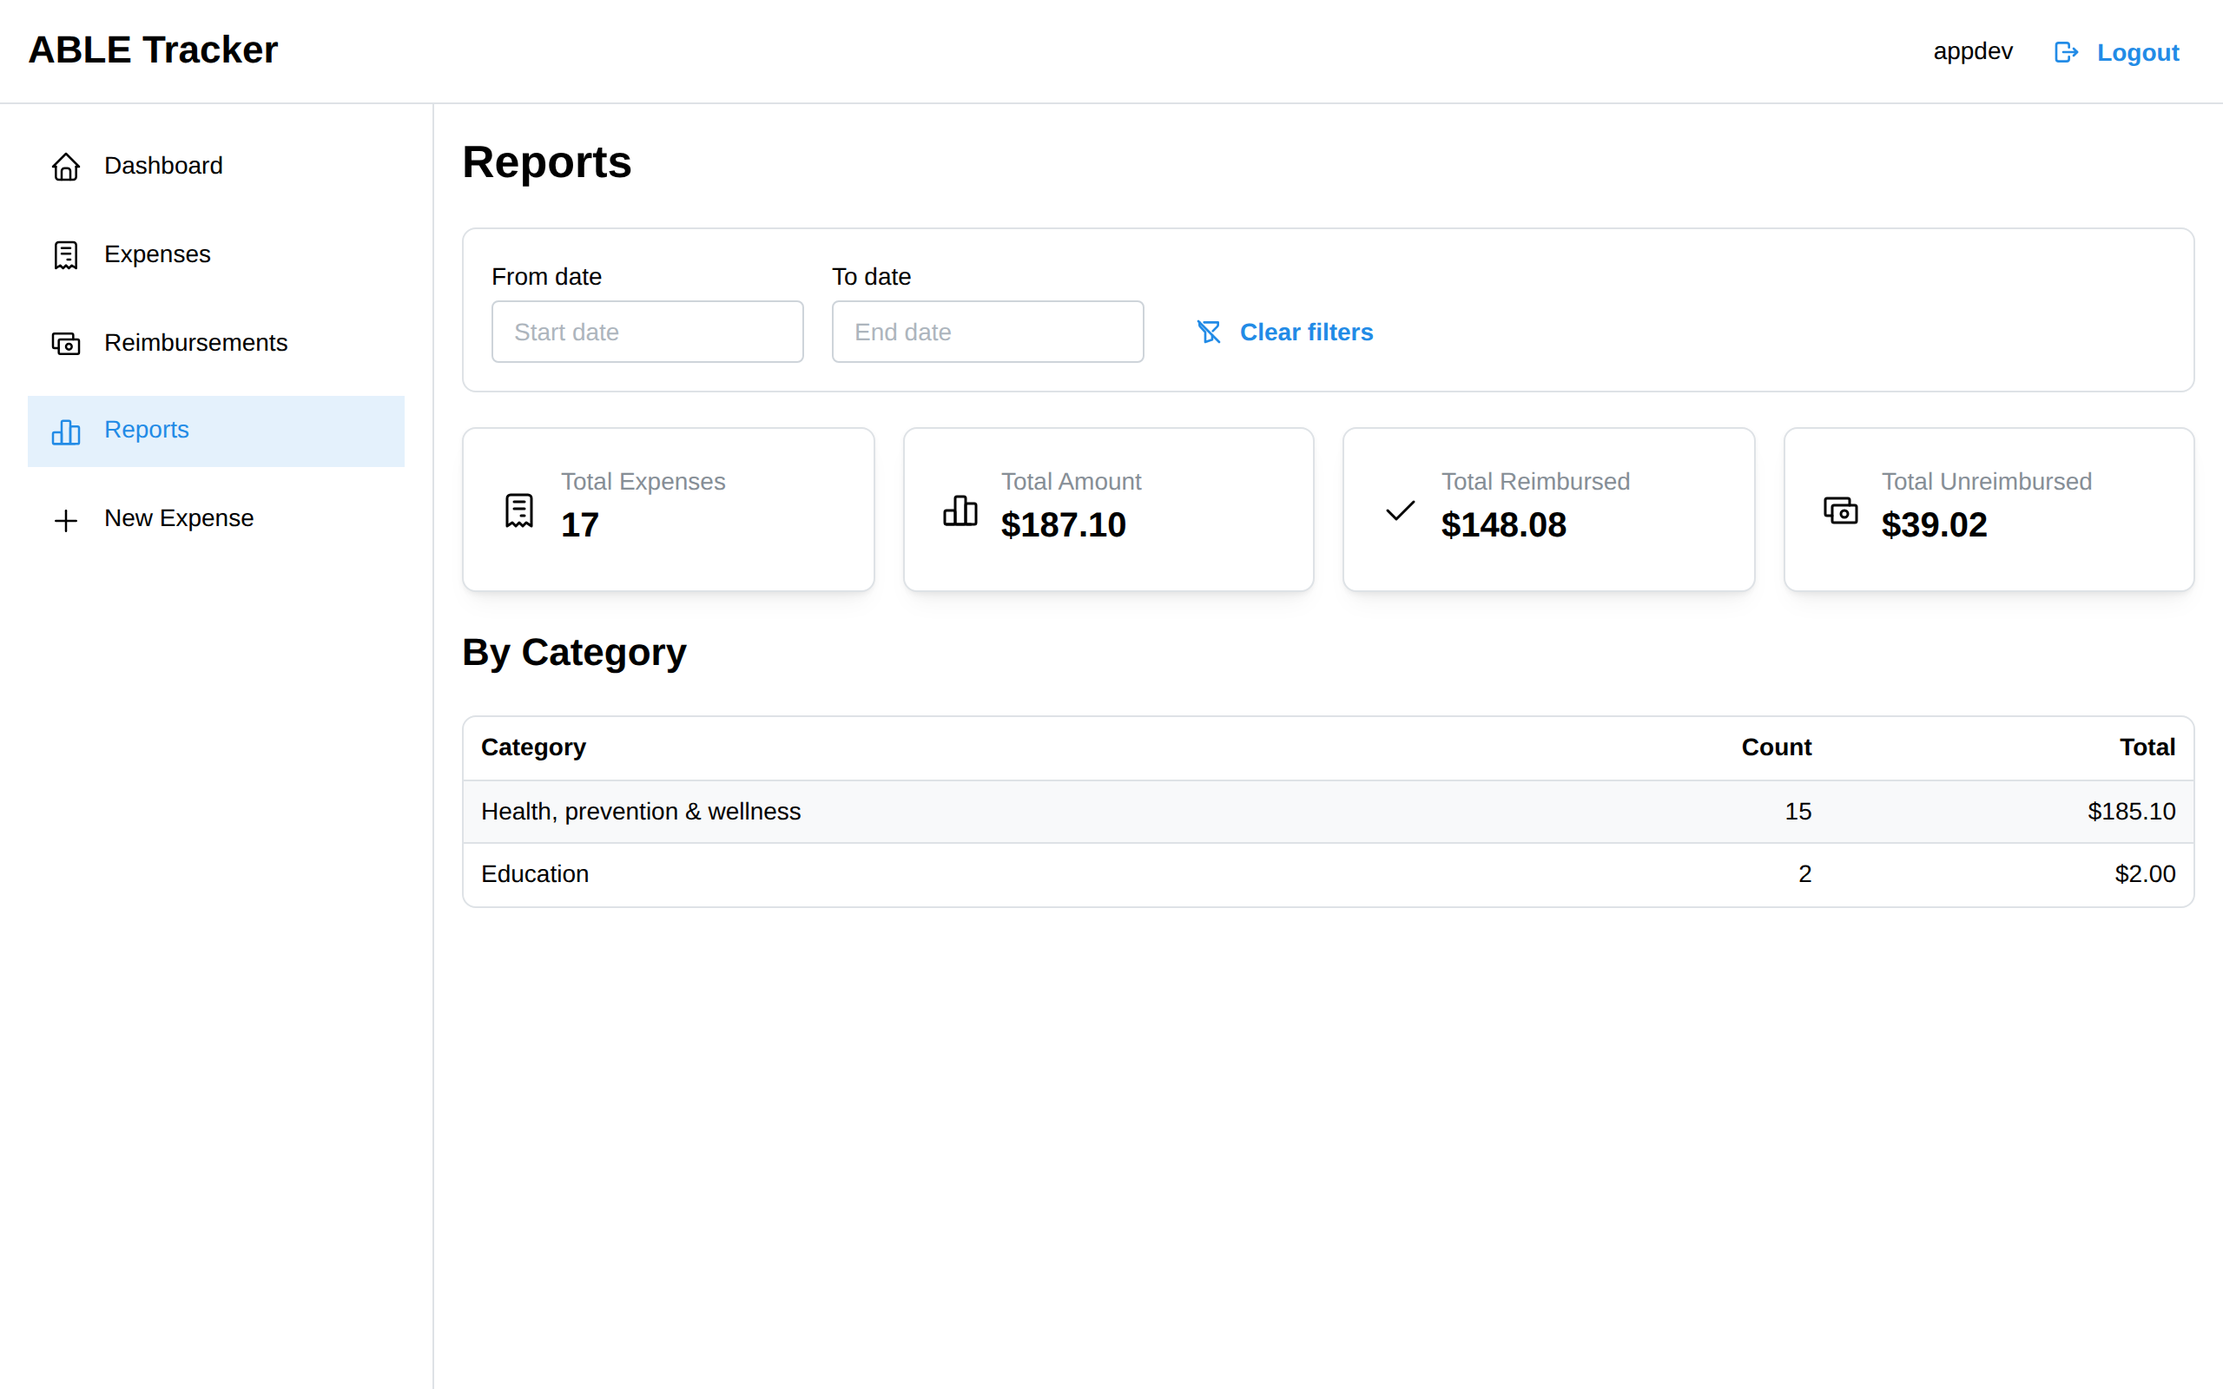
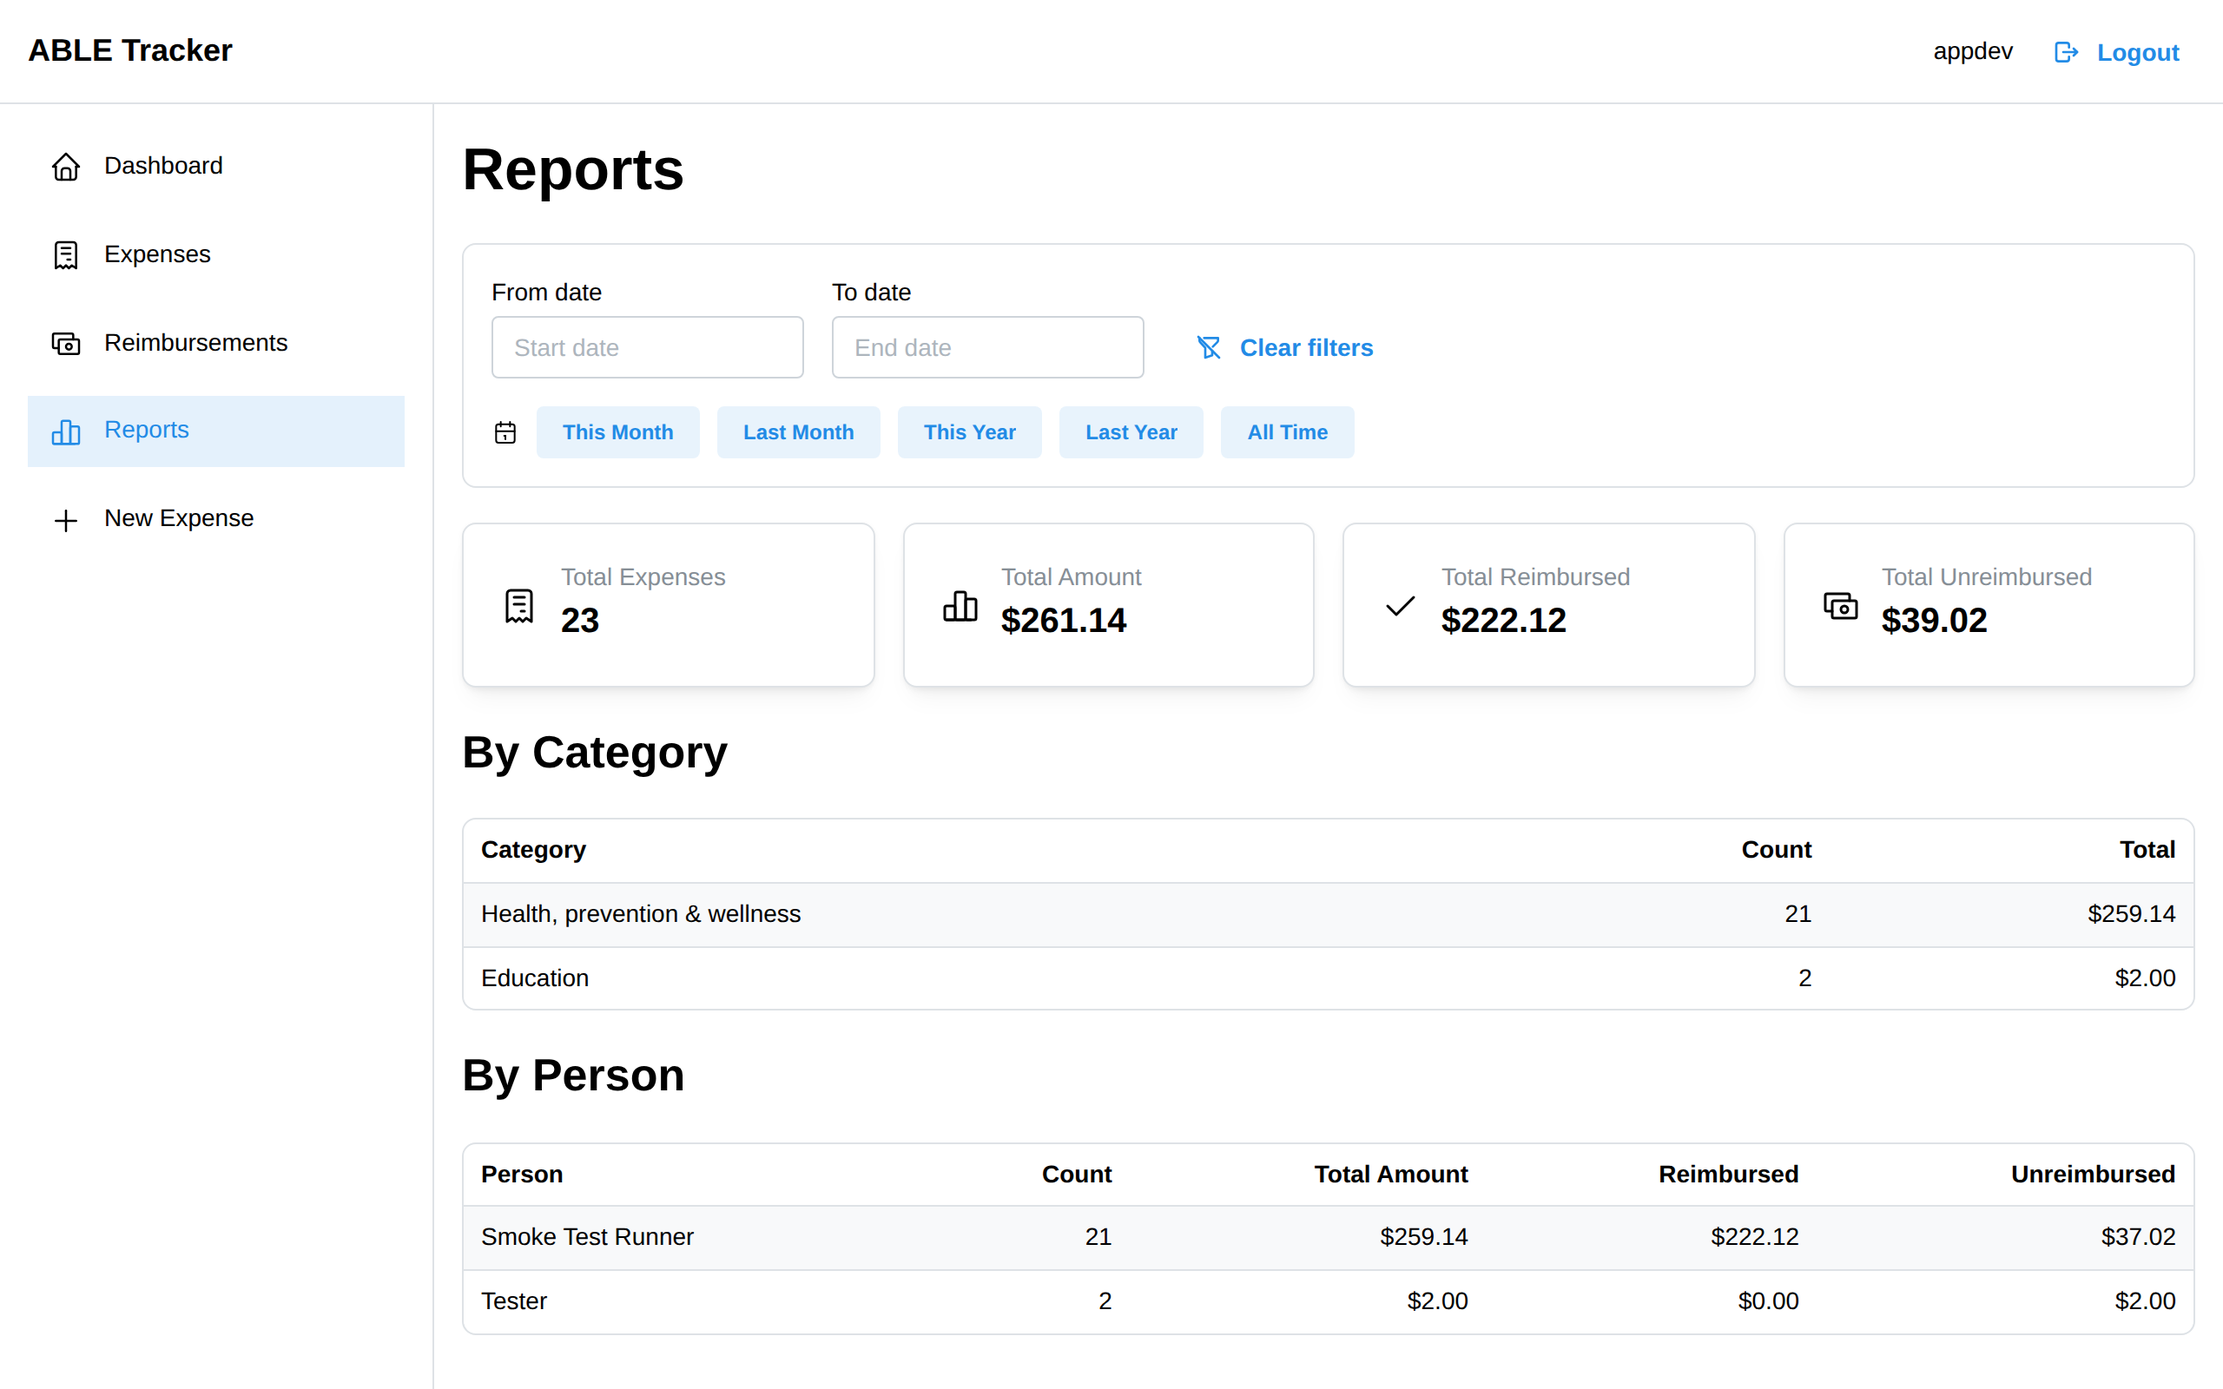
docs: add Sprint 6 UAT report and refresh demo script with screenshots
Update product-demo.md for Sprint 6 features: per-person breakdown and
date presets on Reports page, skip-to-content accessibility link,
structured logging and CloudWatch alarms, security audit docs, S3 IAM
prefix scoping, Playwright E2E framework. Refresh all 13 screenshots
from live environment. Create sprint-6-uat-report.md with 511 passing
tests (280 web + 231 API) and all 7 Sprint 6 items accepted.

diff --git a/docs/demos/product-demo.md b/docs/demos/product-demo.md
@@ -1,6 +1,6 @@
 # ABLE Tracker -- Product Demo
 
-> Last updated: Sprint 5, 2026-03-06 (post-deployment)
+> Last updated: Sprint 6, 2026-03-07 (post-deployment)
 
 ## What is ABLE Tracker?
 
@@ -119,6 +119,7 @@ The Dashboard is the landing page after login. It greets the user by name, provi
 The app uses a sidebar navigation layout with a fixed header. On mobile, the sidebar collapses behind a hamburger menu.
 
 **Header (always visible):**
+- **Skip to content** link (visible on keyboard focus) -- jumps directly to the main content area
 - "ABLE Tracker" title on the left
 - User's display name and a **Logout** button on the right
 
@@ -152,6 +153,7 @@ The app uses a sidebar navigation layout with a fixed header. On mobile, the sid
 - [ ] Logout button ends the session and redirects to login
 - [ ] On mobile, sidebar collapses behind a hamburger menu
 - [ ] Navigation is fully keyboard accessible (Tab, Enter)
+- [ ] Skip-to-content link is visible on keyboard focus and jumps to `#main-content`
 
 ---
 
@@ -381,30 +383,36 @@ The Reimbursements page provides a dedicated view of who is owed money and how m
 
 ![Reports page](screenshots/12-reports.png)
 
-The Reports page provides a high-level financial overview of all expenses with summary statistics and a category breakdown. It supports date range filtering to analyze expenses over specific periods.
+The Reports page provides a high-level financial overview of all expenses with summary statistics, category breakdown, and per-person spending analysis. It supports date range filtering with quick presets to analyze expenses over specific periods.
 
 **Page sections:**
 
-1. **Date range filter** -- From/To date pickers with a "Clear filters" button
-2. **Summary cards** -- Four cards showing key metrics:
+1. **Date range filter** -- From/To date pickers with a "Clear filters" button and quick preset buttons
+2. **Quick date presets** -- One-click buttons for common ranges: "This Month", "Last Month", "This Year", "Last Year", "All Time"
+3. **Summary cards** -- Four cards showing key metrics:
    - **Total Expenses** -- Count of all expenses in the filtered range
    - **Total Amount** -- Sum of all expense amounts
    - **Total Reimbursed** -- Sum of amounts that have been reimbursed
    - **Total Unreimbursed** -- Sum of amounts still awaiting reimbursement
-3. **By Category table** -- Breakdown of expenses by ABLE category, sorted by total amount (highest first), showing category name, count, and total
+4. **By Category table** -- Breakdown of expenses by ABLE category, sorted by total amount (highest first), showing category name, count, and total
+5. **By Person table** -- Breakdown of expenses by payer, sorted by total amount (highest first), showing person name, count, total amount, reimbursed amount, and unreimbursed amount
 
 **Steps:**
 
 1. Navigate to **Reports** from the sidebar.
 2. View the four summary cards for an instant financial overview.
 3. Scroll down to the **By Category** table to see spending distribution across ABLE categories.
-4. Use the **From date** and **To date** pickers to narrow the report to a specific time period.
-5. Click **"Clear filters"** to reset and view all expenses.
+4. Continue to the **By Person** table to see spending and reimbursement status per payer.
+5. Use the **quick preset buttons** (This Month, Last Month, This Year, Last Year, All Time) for common date ranges.
+6. Or use the **From date** and **To date** pickers to set a custom date range.
+7. Click **"Clear filters"** to reset and view all expenses.
 
 **What happens:**
 - All expenses are fetched from the API via `/expenses` (with optional date filters).
 - Summary statistics are aggregated client-side from the full expense list.
 - The category breakdown groups expenses by their ABLE category and sorts by total amount descending.
+- The person breakdown groups expenses by `paidBy` field, showing total, reimbursed, and unreimbursed amounts for each payer.
+- Clicking a date preset automatically sets the From/To dates and triggers a refresh.
 - Changing date filters triggers a new API call and recalculates all summaries.
 
 **Empty state:**
@@ -415,7 +423,10 @@ The Reports page provides a high-level financial overview of all expenses with s
 - [ ] Total Amount = Total Reimbursed + Total Unreimbursed
 - [ ] By Category table shows all categories with expenses, sorted by total descending
 - [ ] Category count and total are accurate
-- [ ] Date range filter narrows results and updates all summaries
+- [ ] By Person table shows all payers with count, total, reimbursed, and unreimbursed columns
+- [ ] Per-person reimbursed + unreimbursed = total for each row
+- [ ] Date range quick presets (This Month, Last Month, This Year, Last Year, All Time) set correct dates
+- [ ] Custom date range filter narrows results and updates all summaries
 - [ ] "Clear filters" resets date range and shows all expenses
 - [ ] Empty state shows when no expenses exist or match filters
 - [ ] All amounts are formatted as currency (e.g., "$187.10")
@@ -453,6 +464,9 @@ ABLE Tracker runs on a fully automated AWS infrastructure, defined entirely in C
 | Database | DynamoDB (single-table) | Expense storage with GSI for category and paidBy queries |
 | Storage | S3 (private) | Receipt file storage via presigned upload URLs |
 | AI | Claude API (Sonnet) | Expense categorization into 11 ABLE categories |
+| Logging | CloudWatch Logs | Structured JSON Lambda logging with request tracing |
+| Monitoring | CloudWatch Alarms | 5xx error rate and AI categorization latency (p99) alerts |
+| E2E Testing | Playwright | End-to-end browser tests for critical paths |
 | CI/CD | GitHub Actions | Automated tests, security review, and deployment pipelines |
 
 ### API Endpoints
@@ -473,15 +487,19 @@ All API endpoints require a valid Cognito JWT in the `Authorization: Bearer <tok
 
 - **API Gateway JWT authorizer** -- All routes require Cognito JWT validation before reaching Lambda
 - **Lambda-level auth validation** -- Defense-in-depth; handlers verify auth context independently
-- **Least-privilege IAM** -- Lambda roles use fine-grained DynamoDB permissions (specific actions on specific table/index ARNs) instead of broad wildcards
+- **Least-privilege IAM** -- Lambda roles use fine-grained DynamoDB permissions (specific actions on specific table/index ARNs) instead of broad wildcards; S3 access scoped to `receipts/*` prefix
 - **CORS restriction** -- API only accepts requests from the deployed frontend domain and localhost
-- **Input validation** -- String length limits (vendor 200, description 1000, paidBy 100), amount validation (>0, max $1M), receipt key scoping
+- **Input validation** -- String length limits (vendor 200, description 1000, paidBy 100, categoryNotes 500), amount validation (>0, max $1M), receipt key scoping; AI categorization endpoint enforces separate input length limits
 - **Generic error messages** -- Auth failures return generic messages; no implementation details leaked
 - **Secret scanning** -- Pre-commit hook and CI pipeline scan for leaked secrets/credentials
 - **No PII to AI** -- Only vendor name and description are sent to the Claude API; no account numbers, SSNs, or personal data
 - **API throttling** -- API Gateway enforces rate limits: 100 requests/sec (200 burst) globally, with tighter limits on the AI categorization endpoint (10 requests/sec, 20 burst)
 - **Upload size limits** -- Presigned upload URLs enforce a 10 MB maximum file size, validated both at the handler level and embedded in the presigned URL signature
+- **Structured logging** -- All Lambda handlers emit structured JSON logs with request IDs, handler names, timestamps, and metadata for traceability
+- **CloudWatch monitoring** -- Alarms on 5xx error rate (>5 errors in 5 minutes) and AI categorization latency (p99 >10 seconds)
 - **Post-deploy smoke tests** -- Automated CI pipeline validates all API endpoints after every deployment
+- **Accessibility (WCAG 2.1 AA)** -- Skip-to-content link, proper heading hierarchy, ARIA labels and live regions, keyboard navigation; full audit in `docs/ACCESSIBILITY.md`
+- **Security audit** -- Comprehensive security review documented in `docs/SECURITY.md`
 
 ---
 
@@ -535,6 +553,10 @@ Clicking a table row in the expense list logs the expense ID to the console but 
 
 The app is responsive (sidebar collapses on narrow screens), but has not been optimized specifically for mobile touch targets, swipe gestures, or native-app-like interactions.
 
+### Dashboard Reimbursements Endpoint
+
+The `/dashboard/reimbursements` endpoint returns 501 (stub). The Dashboard shows "Failed to load dashboard data" for the reimbursements section. Per-person reimbursement data is available on the Reimbursements and Reports pages instead.
+
 ---
 
 ## How to Run This Demo
@@ -554,3 +576,15 @@ The app is responsive (sidebar collapses on narrow screens), but has not been op
 ### For Developers
 
 See `docs/SETUP.md` for self-hosting instructions and `docs/CONTRIBUTING.md` for contribution guidelines. The full infrastructure can be deployed to your own AWS account using CDK.
+
+Additional documentation:
+- `docs/SECURITY.md` -- Security audit findings and mitigations
+- `docs/ACCESSIBILITY.md` -- WCAG 2.1 AA compliance audit
+
+### End-to-End Tests
+
+Playwright E2E tests cover critical user paths (login flow). Run them locally or via GitHub Actions:
+
+```bash
+cd web && pnpm exec playwright test
+```

diff --git a/docs/demos/sprint-6-uat-report.md b/docs/demos/sprint-6-uat-report.md
@@ -1,0 +1,95 @@
+# Sprint 6 UAT Report
+
+> **Date:** 2026-03-07
+> **Tester:** UAT Tester (automated + manual verification)
+> **Environment:** Production (CloudFront + API Gateway)
+
+## Sprint 6 Scope
+
+| PR | Issue | Feature | Status |
+|----|-------|---------|--------|
+| #113 | #111 | Fix smoke test to send fileSize for upload URL endpoint | Merged |
+| #114 | #110 | Deploy Infrastructure workflow triggers on api/ changes | Merged |
+| #115 | #35 | Annual report — per-person breakdown + date presets | Merged |
+| #116 | #17 | Playwright E2E testing framework + login spec | Merged |
+| #117 | #48 | Structured Lambda logging + CloudWatch alarms | Merged |
+| #118 | #19 | Security audit — input limits, S3 IAM scoping, auth checks | Merged |
+| #119 | #20 | Accessibility audit — WCAG 2.1 AA compliance fixes | Merged |
+
+## Test Results
+
+### Automated Tests
+
+| Suite | Tests | Result |
+|-------|-------|--------|
+| Web (Vitest + RTL) | 280 | All passing |
+| API (Vitest) | 231 | All passing |
+| **Total** | **511** | **All passing** |
+
+### Screenshot Verification (Live App)
+
+| Screenshot | Feature | Verified |
+|------------|---------|----------|
+| 01-login-page | Login page renders | Yes |
+| 02-auth-redirect | Auth guard redirects to login | Yes |
+| 03-dashboard | Dashboard with quick actions | Yes (note: dashboard data shows "Failed to load" due to 501 stub) |
+| 04-navigation | 5 sidebar links including Reports | Yes |
+| 05-expense-form | Add Expense form with all fields | Yes |
+| 06-ai-categorization | AI suggest category flow | Yes |
+| 07-expense-list | Expenses table with Reimbursement Status filter | Yes |
+| 09-mobile-nav | Mobile hamburger menu | Yes |
+| 11-reimbursements | Reimbursements with Mark Reimbursed buttons, no truncation | Yes |
+| 12-reports | Reports page with summary cards, category breakdown, **per-person breakdown**, and **date presets** | Yes |
+| 13-expense-filter | Expenses page showing filter bar | Yes |
+| 10-logout | Logout button in header | Yes |
+
+## UAT Findings
+
+### Blockers
+
+None.
+
+### Issues Found
+
+| # | Severity | Description | Action |
+|---|----------|-------------|--------|
+| 1 | Low | Dashboard shows "Failed to load dashboard data" because `/dashboard/reimbursements` returns 501 (stub) | Known limitation — documented in demo script |
+| 2 | Info | Reports "By Person" table shows mostly "Smoke Test Runner" entries because demo data is primarily smoke test data | Cosmetic — table structure and calculations are correct |
+| 3 | Info | Issue #120 created for axe-core integration (automated accessibility testing) | Backlog for Sprint 7 |
+| 4 | Info | Issue #121 created for date picker accessibility improvements | Backlog for Sprint 7 |
+
+### Sprint 6 Feature Acceptance
+
+| Feature | Acceptance Criteria | Result |
+|---------|-------------------|--------|
+| **Smoke test fileSize fix (#111)** | `POST /uploads/request-url` smoke test sends `fileSize` and passes | **PASS** — Fix merged in PR #113 |
+| **Deploy trigger fix (#110)** | `deploy-infra.yml` triggers on `api/**` path changes | **PASS** — Workflow updated in PR #114 |
+| **Annual report — per-person breakdown (#35)** | Reports page shows By Person table with count, total, reimbursed, unreimbursed columns; date preset buttons | **PASS** — Screenshot 12 confirms By Person table and 5 preset buttons (This Month, Last Month, This Year, Last Year, All Time) |
+| **Playwright E2E (#17)** | Playwright config, auth helper, login spec, GitHub Actions workflow | **PASS** — Framework in place with critical path login test |
+| **Structured Lambda logging (#48)** | All handlers emit structured JSON logs with request IDs; CloudWatch alarms for 5xx and latency | **PASS** — Unit tests pass; CDK stack tests verify log groups and alarms |
+| **Security audit (#19)** | Input length limits on categorize endpoint, categoryNotes limit, S3 IAM prefix scoping, stub auth check | **PASS** — 4 findings fixed; `docs/SECURITY.md` published |
+| **Accessibility audit (#20)** | Skip-to-content link, heading hierarchy, ARIA labels/live regions, keyboard navigation | **PASS** — 8 WCAG fixes applied; `docs/ACCESSIBILITY.md` published; 23 new tests |
+
+## Demo Script Updates
+
+The product demo script (`docs/demos/product-demo.md`) has been updated for Sprint 6:
+
+- "Last updated" changed to Sprint 6, 2026-03-07
+- Navigation section: Added skip-to-content link description and verification item
+- Reports section rewritten: Added per-person breakdown table, date range quick presets, updated steps and verification checklist
+- Infrastructure table: Added Logging (CloudWatch), Monitoring (CloudWatch Alarms), E2E Testing (Playwright)
+- Security section: Updated IAM description (S3 prefix scoping), input validation (categoryNotes, categorize limits), added structured logging, CloudWatch monitoring, accessibility, security audit doc references
+- Known Limitations: Added Dashboard Reimbursements Endpoint section (501 stub)
+- Developer section: Added links to `docs/SECURITY.md` and `docs/ACCESSIBILITY.md`, Playwright E2E instructions
+
+## Test Count Growth
+
+| Sprint | Web Tests | API Tests | Total |
+|--------|-----------|-----------|-------|
+| Sprint 5 | 244 | 209 | 453 |
+| Sprint 6 | 280 | 231 | 511 |
+| **Delta** | **+36** | **+22** | **+58** |
+
+## Recommendation
+
+**Sprint 6 is ready for release.** All 7 items pass acceptance criteria. No blockers found. Two informational accessibility issues (#120, #121) are backlogged for Sprint 7.
